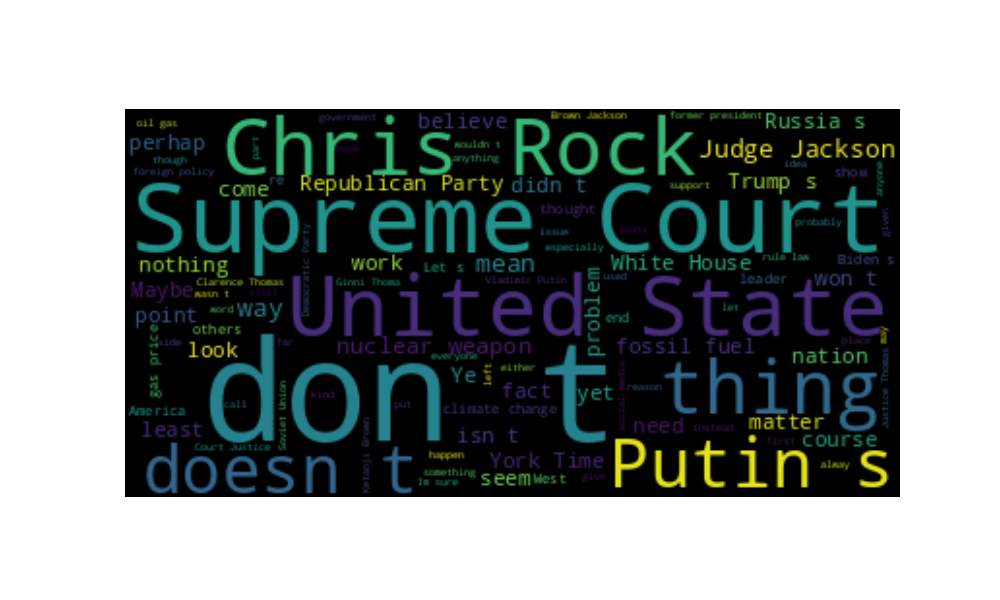
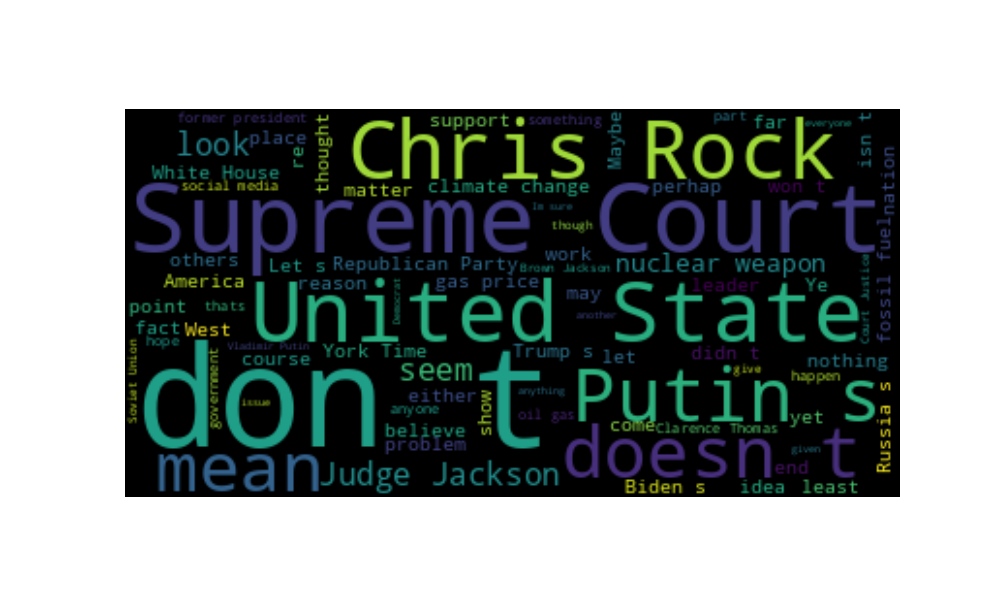
Added better stop words to horizontal analysis.

Changed region(s): [[0.124, 0.18, 0.899, 0.84]]

diff --git a/horizontal/horizontal_analysis.py b/horizontal/horizontal_analysis.py
@@ -3,10 +3,16 @@ from collections import Counter
 import pandas as pd
 from matplotlib import pyplot as plt
 from nltk.corpus import stopwords
+from nltk import WordNetLemmatizer, word_tokenize
 import string
 import os
-
 from wordcloud import WordCloud
+import nltk
+
+# Download the necessary NLTK data files
+nltk.download('wordnet')
+nltk.download('stopwords')
+nltk.download('punkt')
 
 
 def load_additional_stop_words(file_path):
@@ -20,6 +26,21 @@ additional_stop_words = load_additional_stop_words('../additional_stop_words.txt
 stop_words = set(stopwords.words('english'))
 stop_words.update(additional_stop_words)
 
+
+# Preprocessing functions
+def preprocess_text(text):
+    words = word_tokenize(text)
+    words = [word for word in words if word.lower() not in stop_words and word.isalpha()]
+    return ' '.join(words)
+
+
+def lemmatize_text(text):
+    words = word_tokenize(text)
+    lemmatizer = WordNetLemmatizer()
+    words = [lemmatizer.lemmatize(word) for word in words]
+    return ' '.join(words)
+
+
 def load_and_process_data(paths):
     all_text_list = []
     for path in paths:
@@ -29,18 +50,22 @@ def load_and_process_data(paths):
             all_text_list.extend(df['content'].tolist())
         else:
             print(f"File not found: {path}")
-    return ' '.join(all_text_list)
+
+    processed_texts = []
+    for text in all_text_list:
+        if text.strip():  # Check if the text is not empty
+            preprocessed_text = preprocess_text(text)
+            lemmatized_text = lemmatize_text(preprocessed_text)
+            processed_texts.append(lemmatized_text)
+        else:
+            print(f"Skipping empty text in file")
+
+    return ' '.join(processed_texts)
+
 
 def most_common_words(all_text, name):
     print(f"Starting 20 most common words for {name}")
     all_text = all_text.translate(str.maketrans('', '', string.punctuation))
-
-    def preprocess_text(text):
-        words = text.split()
-        words = [word for word in words if word.lower() not in stop_words]
-        return ' '.join(words)
-
-    all_text = preprocess_text(all_text)
 
     words = all_text.split()
     word_freq = Counter(words)
@@ -56,24 +81,24 @@ def most_common_words(all_text, name):
     plt.close()
     print(f"Finished 20 most common words for {name}")
 
+
 def word_cloud(all_text, name):
     print(f"Starting word cloud for {name}")
     all_text = all_text.translate(str.maketrans('', '', string.punctuation))
 
-    def preprocess_text(text):
-        words = text.split()
-        words = [word for word in words if word.lower() not in stop_words]
-        return ' '.join(words)
+    wordcloud = WordCloud(width=800, height=800,
+                          background_color='white',
+                          stopwords=stop_words,
+                          min_font_size=10).generate(all_text)
 
-    all_text = preprocess_text(all_text)
-
-    wordcloud = WordCloud().generate(all_text)
-    plt.figure(figsize=(10, 6))
-    plt.imshow(wordcloud, interpolation='bilinear')
-    plt.axis('off')
-    plt.savefig(f'./{name}_wordcloud.png')
+    plt.figure(figsize=(8, 8), facecolor=None)
+    plt.imshow(wordcloud)
+    plt.axis("off")
+    plt.tight_layout()
+    plt.savefig(f'./{name}_word_cloud.png')
     plt.close()
     print(f"Finished word cloud for {name}")
+
 
 # Paths to CSV files
 base_path = os.path.expanduser('~/MultiLayrtET2_Project/Data/2_proccessed_data_and_analysis/data/selected_data')
